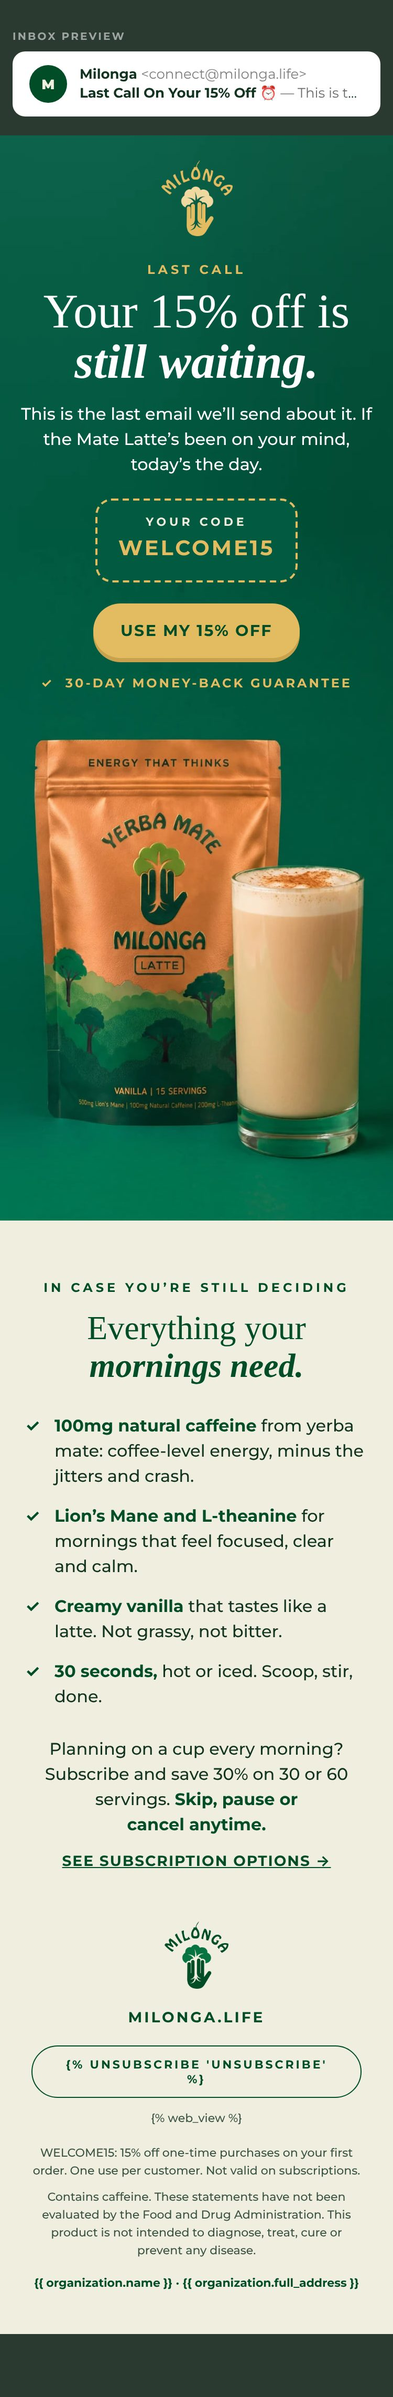
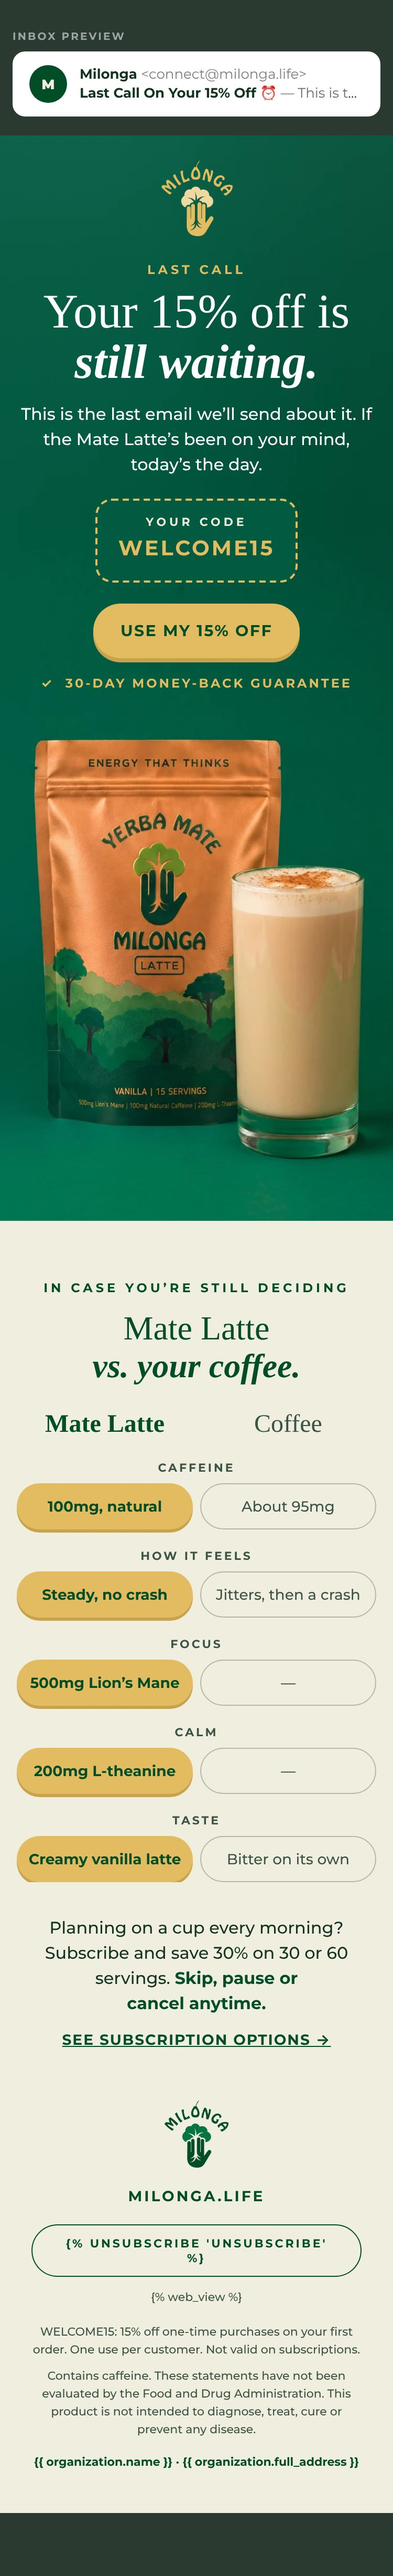
Welcome flow E3: Mate Latte vs. coffee comparison
Claude-Session: https://claude.ai/code/session_01NhEtXPnfeCJfN73SqBkUZ5

diff --git a/email-ds/refine/welcome-e3.html b/email-ds/refine/welcome-e3.html
@@ -36,6 +36,8 @@ body{margin:0;background:#2B3A31;padding:28px 0 60px}
     .code { font-size:20px !important; letter-spacing:2px !important; }
     .code-tag { padding:12px 20px 14px !important; }
     .btn { padding:18px 26px !important; font-size:15px !important; letter-spacing:1.2px !important; }
+    .pad-cmp { padding-left:16px !important; padding-right:16px !important; }
+    .cmp { font-size:14px !important; line-height:18px !important; padding-left:8px !important; padding-right:8px !important; }
   }
   @media (prefers-color-scheme: dark) {
     .bg-hero { background-color:#025A41 !important; }
@@ -68,25 +70,52 @@ body{margin:0;background:#2B3A31;padding:28px 0 60px}
 <!--[if gte mso 9]></v:textbox></v:rect><![endif]-->
 </td></tr>
 
-<!-- ── 2 · STILL DECIDING? (beige) ─────────────────────────────────── -->
-<tr><td class="pad bg-page" align="center" bgcolor="#F0EFDF" style="background-color:#F0EFDF;padding:56px 48px 0;font-family:'Montserrat','Helvetica Neue',Helvetica,Arial,sans-serif;">
+<!-- ── 2 · MATE LATTE VS. COFFEE (beige) ─────────────────────────── -->
+<tr><td class="pad bg-page" align="center" bgcolor="#F0EFDF" style="background-color:#F0EFDF;padding:56px 40px 0;font-family:'Montserrat','Helvetica Neue',Helvetica,Arial,sans-serif;">
 <div style="font-size:12px;line-height:16px;font-weight:700;letter-spacing:3px;text-transform:uppercase;color:#004D27;">In case you&rsquo;re still deciding</div>
-<div class="h-sec" style="padding-top:12px;font-family:'Times New Roman',Times,Georgia,serif;font-size:40px;line-height:44px;font-weight:400;color:#004D27;">Everything your</div>
-<div class="h-sec" style="font-family:'Times New Roman',Times,Georgia,serif;font-size:40px;line-height:44px;font-weight:700;font-style:italic;color:#004D27;">mornings need.</div>
+<div class="h-sec" style="padding-top:12px;font-family:'Times New Roman',Times,Georgia,serif;font-size:40px;line-height:44px;font-weight:400;color:#004D27;">Mate Latte</div>
+<div class="h-sec" style="font-family:'Times New Roman',Times,Georgia,serif;font-size:40px;line-height:44px;font-weight:700;font-style:italic;color:#004D27;">vs. your coffee.</div>
 </td></tr>
-<tr><td class="pad bg-page" bgcolor="#F0EFDF" style="background-color:#F0EFDF;padding:28px 56px 0;">
-<table role="presentation" width="100%" cellpadding="0" cellspacing="0" border="0">
-<tr><td valign="top" width="28" style="width:28px;padding:0 0 14px;font-family:'Montserrat','Helvetica Neue',Helvetica,Arial,sans-serif;font-size:16px;line-height:24px;font-weight:700;color:#004D27;">&#10003;</td>
-<td valign="top" style="padding:0 0 14px;font-family:'Montserrat','Helvetica Neue',Helvetica,Arial,sans-serif;font-size:16px;line-height:24px;font-weight:500;color:#12331F;"><strong style="font-weight:700;color:#004D27;">100mg natural caffeine</strong> from yerba mate: coffee-level energy, minus the jitters and crash.</td></tr>
-<tr><td valign="top" width="28" style="width:28px;padding:0 0 14px;font-family:'Montserrat','Helvetica Neue',Helvetica,Arial,sans-serif;font-size:16px;line-height:24px;font-weight:700;color:#004D27;">&#10003;</td>
-<td valign="top" style="padding:0 0 14px;font-family:'Montserrat','Helvetica Neue',Helvetica,Arial,sans-serif;font-size:16px;line-height:24px;font-weight:500;color:#12331F;"><strong style="font-weight:700;color:#004D27;">Lion&rsquo;s Mane and L-theanine</strong> for mornings that feel focused, clear and calm.</td></tr>
-<tr><td valign="top" width="28" style="width:28px;padding:0 0 14px;font-family:'Montserrat','Helvetica Neue',Helvetica,Arial,sans-serif;font-size:16px;line-height:24px;font-weight:700;color:#004D27;">&#10003;</td>
-<td valign="top" style="padding:0 0 14px;font-family:'Montserrat','Helvetica Neue',Helvetica,Arial,sans-serif;font-size:16px;line-height:24px;font-weight:500;color:#12331F;"><strong style="font-weight:700;color:#004D27;">Creamy vanilla</strong> that tastes like a latte. Not grassy, not bitter.</td></tr>
-<tr><td valign="top" width="28" style="width:28px;padding:0 0 14px;font-family:'Montserrat','Helvetica Neue',Helvetica,Arial,sans-serif;font-size:16px;line-height:24px;font-weight:700;color:#004D27;">&#10003;</td>
-<td valign="top" style="padding:0 0 14px;font-family:'Montserrat','Helvetica Neue',Helvetica,Arial,sans-serif;font-size:16px;line-height:24px;font-weight:500;color:#12331F;"><strong style="font-weight:700;color:#004D27;">30 seconds,</strong> hot or iced. Scoop, stir, done.</td></tr>
+<tr><td class="pad-cmp bg-page" bgcolor="#F0EFDF" style="background-color:#F0EFDF;padding:24px 40px 0;">
+<table role="presentation" width="100%" cellpadding="0" cellspacing="0" border="0" style="border-collapse:separate;">
+<tr>
+<td width="49%" align="center" style="width:49%;padding-bottom:2px;font-family:'Times New Roman',Times,Georgia,serif;font-size:24px;line-height:28px;font-weight:700;color:#004D27;">Mate Latte</td>
+<td width="2%" style="width:2%;font-size:0;">&nbsp;</td>
+<td width="49%" align="center" style="width:49%;padding-bottom:2px;font-family:'Times New Roman',Times,Georgia,serif;font-size:24px;line-height:28px;font-weight:400;color:#3B5344;">Coffee</td>
+</tr>
+<tr><td colspan="3" align="center" style="padding:18px 0 8px;font-family:'Montserrat','Helvetica Neue',Helvetica,Arial,sans-serif;font-size:11px;line-height:14px;font-weight:700;letter-spacing:2px;text-transform:uppercase;color:#3B5344;">Caffeine</td></tr>
+<tr>
+<td class="cmp" width="49%" align="center" valign="middle" bgcolor="#E3BC62" style="width:49%;background-color:#E3BC62;border-radius:999px;padding:13px 10px;font-family:'Montserrat','Helvetica Neue',Helvetica,Arial,sans-serif;font-size:15px;line-height:20px;font-weight:700;color:#004D27;box-shadow:0 3px 0 #C9A24E;">100mg, natural</td>
+<td width="2%" style="width:2%;font-size:0;line-height:0;">&nbsp;</td>
+<td class="cmp" width="49%" align="center" valign="middle" style="width:49%;border:1.5px solid #B9B7A3;border-radius:999px;padding:12px 10px;font-family:'Montserrat','Helvetica Neue',Helvetica,Arial,sans-serif;font-size:15px;line-height:20px;font-weight:500;color:#3B5344;">About 95mg</td>
+</tr>
+<tr><td colspan="3" align="center" style="padding:18px 0 8px;font-family:'Montserrat','Helvetica Neue',Helvetica,Arial,sans-serif;font-size:11px;line-height:14px;font-weight:700;letter-spacing:2px;text-transform:uppercase;color:#3B5344;">How it feels</td></tr>
+<tr>
+<td class="cmp" width="49%" align="center" valign="middle" bgcolor="#E3BC62" style="width:49%;background-color:#E3BC62;border-radius:999px;padding:13px 10px;font-family:'Montserrat','Helvetica Neue',Helvetica,Arial,sans-serif;font-size:15px;line-height:20px;font-weight:700;color:#004D27;box-shadow:0 3px 0 #C9A24E;">Steady, no crash</td>
+<td width="2%" style="width:2%;font-size:0;line-height:0;">&nbsp;</td>
+<td class="cmp" width="49%" align="center" valign="middle" style="width:49%;border:1.5px solid #B9B7A3;border-radius:999px;padding:12px 10px;font-family:'Montserrat','Helvetica Neue',Helvetica,Arial,sans-serif;font-size:15px;line-height:20px;font-weight:500;color:#3B5344;">Jitters, then a crash</td>
+</tr>
+<tr><td colspan="3" align="center" style="padding:18px 0 8px;font-family:'Montserrat','Helvetica Neue',Helvetica,Arial,sans-serif;font-size:11px;line-height:14px;font-weight:700;letter-spacing:2px;text-transform:uppercase;color:#3B5344;">Focus</td></tr>
+<tr>
+<td class="cmp" width="49%" align="center" valign="middle" bgcolor="#E3BC62" style="width:49%;background-color:#E3BC62;border-radius:999px;padding:13px 10px;font-family:'Montserrat','Helvetica Neue',Helvetica,Arial,sans-serif;font-size:15px;line-height:20px;font-weight:700;color:#004D27;box-shadow:0 3px 0 #C9A24E;">500mg Lion&rsquo;s Mane</td>
+<td width="2%" style="width:2%;font-size:0;line-height:0;">&nbsp;</td>
+<td class="cmp" width="49%" align="center" valign="middle" style="width:49%;border:1.5px solid #B9B7A3;border-radius:999px;padding:12px 10px;font-family:'Montserrat','Helvetica Neue',Helvetica,Arial,sans-serif;font-size:15px;line-height:20px;font-weight:500;color:#3B5344;">&mdash;</td>
+</tr>
+<tr><td colspan="3" align="center" style="padding:18px 0 8px;font-family:'Montserrat','Helvetica Neue',Helvetica,Arial,sans-serif;font-size:11px;line-height:14px;font-weight:700;letter-spacing:2px;text-transform:uppercase;color:#3B5344;">Calm</td></tr>
+<tr>
+<td class="cmp" width="49%" align="center" valign="middle" bgcolor="#E3BC62" style="width:49%;background-color:#E3BC62;border-radius:999px;padding:13px 10px;font-family:'Montserrat','Helvetica Neue',Helvetica,Arial,sans-serif;font-size:15px;line-height:20px;font-weight:700;color:#004D27;box-shadow:0 3px 0 #C9A24E;">200mg L-theanine</td>
+<td width="2%" style="width:2%;font-size:0;line-height:0;">&nbsp;</td>
+<td class="cmp" width="49%" align="center" valign="middle" style="width:49%;border:1.5px solid #B9B7A3;border-radius:999px;padding:12px 10px;font-family:'Montserrat','Helvetica Neue',Helvetica,Arial,sans-serif;font-size:15px;line-height:20px;font-weight:500;color:#3B5344;">&mdash;</td>
+</tr>
+<tr><td colspan="3" align="center" style="padding:18px 0 8px;font-family:'Montserrat','Helvetica Neue',Helvetica,Arial,sans-serif;font-size:11px;line-height:14px;font-weight:700;letter-spacing:2px;text-transform:uppercase;color:#3B5344;">Taste</td></tr>
+<tr>
+<td class="cmp" width="49%" align="center" valign="middle" bgcolor="#E3BC62" style="width:49%;background-color:#E3BC62;border-radius:999px;padding:13px 10px;font-family:'Montserrat','Helvetica Neue',Helvetica,Arial,sans-serif;font-size:15px;line-height:20px;font-weight:700;color:#004D27;box-shadow:0 3px 0 #C9A24E;">Creamy vanilla latte</td>
+<td width="2%" style="width:2%;font-size:0;line-height:0;">&nbsp;</td>
+<td class="cmp" width="49%" align="center" valign="middle" style="width:49%;border:1.5px solid #B9B7A3;border-radius:999px;padding:12px 10px;font-family:'Montserrat','Helvetica Neue',Helvetica,Arial,sans-serif;font-size:15px;line-height:20px;font-weight:500;color:#3B5344;">Bitter on its own</td>
+</tr>
 </table>
 </td></tr>
-<tr><td class="pad bg-page" align="center" bgcolor="#F0EFDF" style="background-color:#F0EFDF;padding:12px 48px 0;font-family:'Montserrat','Helvetica Neue',Helvetica,Arial,sans-serif;">
+<tr><td class="pad bg-page" align="center" bgcolor="#F0EFDF" style="background-color:#F0EFDF;padding:32px 48px 0;font-family:'Montserrat','Helvetica Neue',Helvetica,Arial,sans-serif;">
 <div style="font-size:16px;line-height:24px;font-weight:500;color:#12331F;">Planning on a cup every morning? Subscribe and save 30% on 30 or 60 servings. <strong style="font-weight:700;color:#004D27;">Skip, pause or cancel&nbsp;anytime.</strong></div>
 <div style="padding-top:12px;font-size:14px;line-height:20px;font-weight:700;letter-spacing:1px;text-transform:uppercase;"><a href="https://milonga.life/products/the-original-mate-latte?utm_source=klaviyo&amp;utm_medium=email&amp;utm_campaign=welcome_mystery_offer&amp;utm_content=e3_subscribe_link" target="_blank" style="color:#004D27;text-decoration:underline;">See subscription options →</a></div>
 </td></tr>

diff --git a/email-ds/exports/klaviyo/welcome-e3/welcome-e3.html b/email-ds/exports/klaviyo/welcome-e3/welcome-e3.html
@@ -22,6 +22,8 @@
     .code { font-size:20px !important; letter-spacing:2px !important; }
     .code-tag { padding:12px 20px 14px !important; }
     .btn { padding:18px 26px !important; font-size:15px !important; letter-spacing:1.2px !important; }
+    .pad-cmp { padding-left:16px !important; padding-right:16px !important; }
+    .cmp { font-size:14px !important; line-height:18px !important; padding-left:8px !important; padding-right:8px !important; }
   }
   @media (prefers-color-scheme: dark) {
     .bg-hero { background-color:#025A41 !important; }
@@ -54,25 +56,52 @@
 <!--[if gte mso 9]></v:textbox></v:rect><![endif]-->
 </td></tr>
 
-<!-- ── 2 · STILL DECIDING? (beige) ─────────────────────────────────── -->
-<tr><td class="pad bg-page" align="center" bgcolor="#F0EFDF" style="background-color:#F0EFDF;padding:56px 48px 0;font-family:'Montserrat','Helvetica Neue',Helvetica,Arial,sans-serif;">
+<!-- ── 2 · MATE LATTE VS. COFFEE (beige) ─────────────────────────── -->
+<tr><td class="pad bg-page" align="center" bgcolor="#F0EFDF" style="background-color:#F0EFDF;padding:56px 40px 0;font-family:'Montserrat','Helvetica Neue',Helvetica,Arial,sans-serif;">
 <div style="font-size:12px;line-height:16px;font-weight:700;letter-spacing:3px;text-transform:uppercase;color:#004D27;">In case you&rsquo;re still deciding</div>
-<div class="h-sec" style="padding-top:12px;font-family:'Times New Roman',Times,Georgia,serif;font-size:40px;line-height:44px;font-weight:400;color:#004D27;">Everything your</div>
-<div class="h-sec" style="font-family:'Times New Roman',Times,Georgia,serif;font-size:40px;line-height:44px;font-weight:700;font-style:italic;color:#004D27;">mornings need.</div>
+<div class="h-sec" style="padding-top:12px;font-family:'Times New Roman',Times,Georgia,serif;font-size:40px;line-height:44px;font-weight:400;color:#004D27;">Mate Latte</div>
+<div class="h-sec" style="font-family:'Times New Roman',Times,Georgia,serif;font-size:40px;line-height:44px;font-weight:700;font-style:italic;color:#004D27;">vs. your coffee.</div>
 </td></tr>
-<tr><td class="pad bg-page" bgcolor="#F0EFDF" style="background-color:#F0EFDF;padding:28px 56px 0;">
-<table role="presentation" width="100%" cellpadding="0" cellspacing="0" border="0">
-<tr><td valign="top" width="28" style="width:28px;padding:0 0 14px;font-family:'Montserrat','Helvetica Neue',Helvetica,Arial,sans-serif;font-size:16px;line-height:24px;font-weight:700;color:#004D27;">&#10003;</td>
-<td valign="top" style="padding:0 0 14px;font-family:'Montserrat','Helvetica Neue',Helvetica,Arial,sans-serif;font-size:16px;line-height:24px;font-weight:500;color:#12331F;"><strong style="font-weight:700;color:#004D27;">100mg natural caffeine</strong> from yerba mate: coffee-level energy, minus the jitters and crash.</td></tr>
-<tr><td valign="top" width="28" style="width:28px;padding:0 0 14px;font-family:'Montserrat','Helvetica Neue',Helvetica,Arial,sans-serif;font-size:16px;line-height:24px;font-weight:700;color:#004D27;">&#10003;</td>
-<td valign="top" style="padding:0 0 14px;font-family:'Montserrat','Helvetica Neue',Helvetica,Arial,sans-serif;font-size:16px;line-height:24px;font-weight:500;color:#12331F;"><strong style="font-weight:700;color:#004D27;">Lion&rsquo;s Mane and L-theanine</strong> for mornings that feel focused, clear and calm.</td></tr>
-<tr><td valign="top" width="28" style="width:28px;padding:0 0 14px;font-family:'Montserrat','Helvetica Neue',Helvetica,Arial,sans-serif;font-size:16px;line-height:24px;font-weight:700;color:#004D27;">&#10003;</td>
-<td valign="top" style="padding:0 0 14px;font-family:'Montserrat','Helvetica Neue',Helvetica,Arial,sans-serif;font-size:16px;line-height:24px;font-weight:500;color:#12331F;"><strong style="font-weight:700;color:#004D27;">Creamy vanilla</strong> that tastes like a latte. Not grassy, not bitter.</td></tr>
-<tr><td valign="top" width="28" style="width:28px;padding:0 0 14px;font-family:'Montserrat','Helvetica Neue',Helvetica,Arial,sans-serif;font-size:16px;line-height:24px;font-weight:700;color:#004D27;">&#10003;</td>
-<td valign="top" style="padding:0 0 14px;font-family:'Montserrat','Helvetica Neue',Helvetica,Arial,sans-serif;font-size:16px;line-height:24px;font-weight:500;color:#12331F;"><strong style="font-weight:700;color:#004D27;">30 seconds,</strong> hot or iced. Scoop, stir, done.</td></tr>
+<tr><td class="pad-cmp bg-page" bgcolor="#F0EFDF" style="background-color:#F0EFDF;padding:24px 40px 0;">
+<table role="presentation" width="100%" cellpadding="0" cellspacing="0" border="0" style="border-collapse:separate;">
+<tr>
+<td width="49%" align="center" style="width:49%;padding-bottom:2px;font-family:'Times New Roman',Times,Georgia,serif;font-size:24px;line-height:28px;font-weight:700;color:#004D27;">Mate Latte</td>
+<td width="2%" style="width:2%;font-size:0;">&nbsp;</td>
+<td width="49%" align="center" style="width:49%;padding-bottom:2px;font-family:'Times New Roman',Times,Georgia,serif;font-size:24px;line-height:28px;font-weight:400;color:#3B5344;">Coffee</td>
+</tr>
+<tr><td colspan="3" align="center" style="padding:18px 0 8px;font-family:'Montserrat','Helvetica Neue',Helvetica,Arial,sans-serif;font-size:11px;line-height:14px;font-weight:700;letter-spacing:2px;text-transform:uppercase;color:#3B5344;">Caffeine</td></tr>
+<tr>
+<td class="cmp" width="49%" align="center" valign="middle" bgcolor="#E3BC62" style="width:49%;background-color:#E3BC62;border-radius:999px;padding:13px 10px;font-family:'Montserrat','Helvetica Neue',Helvetica,Arial,sans-serif;font-size:15px;line-height:20px;font-weight:700;color:#004D27;box-shadow:0 3px 0 #C9A24E;">100mg, natural</td>
+<td width="2%" style="width:2%;font-size:0;line-height:0;">&nbsp;</td>
+<td class="cmp" width="49%" align="center" valign="middle" style="width:49%;border:1.5px solid #B9B7A3;border-radius:999px;padding:12px 10px;font-family:'Montserrat','Helvetica Neue',Helvetica,Arial,sans-serif;font-size:15px;line-height:20px;font-weight:500;color:#3B5344;">About 95mg</td>
+</tr>
+<tr><td colspan="3" align="center" style="padding:18px 0 8px;font-family:'Montserrat','Helvetica Neue',Helvetica,Arial,sans-serif;font-size:11px;line-height:14px;font-weight:700;letter-spacing:2px;text-transform:uppercase;color:#3B5344;">How it feels</td></tr>
+<tr>
+<td class="cmp" width="49%" align="center" valign="middle" bgcolor="#E3BC62" style="width:49%;background-color:#E3BC62;border-radius:999px;padding:13px 10px;font-family:'Montserrat','Helvetica Neue',Helvetica,Arial,sans-serif;font-size:15px;line-height:20px;font-weight:700;color:#004D27;box-shadow:0 3px 0 #C9A24E;">Steady, no crash</td>
+<td width="2%" style="width:2%;font-size:0;line-height:0;">&nbsp;</td>
+<td class="cmp" width="49%" align="center" valign="middle" style="width:49%;border:1.5px solid #B9B7A3;border-radius:999px;padding:12px 10px;font-family:'Montserrat','Helvetica Neue',Helvetica,Arial,sans-serif;font-size:15px;line-height:20px;font-weight:500;color:#3B5344;">Jitters, then a crash</td>
+</tr>
+<tr><td colspan="3" align="center" style="padding:18px 0 8px;font-family:'Montserrat','Helvetica Neue',Helvetica,Arial,sans-serif;font-size:11px;line-height:14px;font-weight:700;letter-spacing:2px;text-transform:uppercase;color:#3B5344;">Focus</td></tr>
+<tr>
+<td class="cmp" width="49%" align="center" valign="middle" bgcolor="#E3BC62" style="width:49%;background-color:#E3BC62;border-radius:999px;padding:13px 10px;font-family:'Montserrat','Helvetica Neue',Helvetica,Arial,sans-serif;font-size:15px;line-height:20px;font-weight:700;color:#004D27;box-shadow:0 3px 0 #C9A24E;">500mg Lion&rsquo;s Mane</td>
+<td width="2%" style="width:2%;font-size:0;line-height:0;">&nbsp;</td>
+<td class="cmp" width="49%" align="center" valign="middle" style="width:49%;border:1.5px solid #B9B7A3;border-radius:999px;padding:12px 10px;font-family:'Montserrat','Helvetica Neue',Helvetica,Arial,sans-serif;font-size:15px;line-height:20px;font-weight:500;color:#3B5344;">&mdash;</td>
+</tr>
+<tr><td colspan="3" align="center" style="padding:18px 0 8px;font-family:'Montserrat','Helvetica Neue',Helvetica,Arial,sans-serif;font-size:11px;line-height:14px;font-weight:700;letter-spacing:2px;text-transform:uppercase;color:#3B5344;">Calm</td></tr>
+<tr>
+<td class="cmp" width="49%" align="center" valign="middle" bgcolor="#E3BC62" style="width:49%;background-color:#E3BC62;border-radius:999px;padding:13px 10px;font-family:'Montserrat','Helvetica Neue',Helvetica,Arial,sans-serif;font-size:15px;line-height:20px;font-weight:700;color:#004D27;box-shadow:0 3px 0 #C9A24E;">200mg L-theanine</td>
+<td width="2%" style="width:2%;font-size:0;line-height:0;">&nbsp;</td>
+<td class="cmp" width="49%" align="center" valign="middle" style="width:49%;border:1.5px solid #B9B7A3;border-radius:999px;padding:12px 10px;font-family:'Montserrat','Helvetica Neue',Helvetica,Arial,sans-serif;font-size:15px;line-height:20px;font-weight:500;color:#3B5344;">&mdash;</td>
+</tr>
+<tr><td colspan="3" align="center" style="padding:18px 0 8px;font-family:'Montserrat','Helvetica Neue',Helvetica,Arial,sans-serif;font-size:11px;line-height:14px;font-weight:700;letter-spacing:2px;text-transform:uppercase;color:#3B5344;">Taste</td></tr>
+<tr>
+<td class="cmp" width="49%" align="center" valign="middle" bgcolor="#E3BC62" style="width:49%;background-color:#E3BC62;border-radius:999px;padding:13px 10px;font-family:'Montserrat','Helvetica Neue',Helvetica,Arial,sans-serif;font-size:15px;line-height:20px;font-weight:700;color:#004D27;box-shadow:0 3px 0 #C9A24E;">Creamy vanilla latte</td>
+<td width="2%" style="width:2%;font-size:0;line-height:0;">&nbsp;</td>
+<td class="cmp" width="49%" align="center" valign="middle" style="width:49%;border:1.5px solid #B9B7A3;border-radius:999px;padding:12px 10px;font-family:'Montserrat','Helvetica Neue',Helvetica,Arial,sans-serif;font-size:15px;line-height:20px;font-weight:500;color:#3B5344;">Bitter on its own</td>
+</tr>
 </table>
 </td></tr>
-<tr><td class="pad bg-page" align="center" bgcolor="#F0EFDF" style="background-color:#F0EFDF;padding:12px 48px 0;font-family:'Montserrat','Helvetica Neue',Helvetica,Arial,sans-serif;">
+<tr><td class="pad bg-page" align="center" bgcolor="#F0EFDF" style="background-color:#F0EFDF;padding:32px 48px 0;font-family:'Montserrat','Helvetica Neue',Helvetica,Arial,sans-serif;">
 <div style="font-size:16px;line-height:24px;font-weight:500;color:#12331F;">Planning on a cup every morning? Subscribe and save 30% on 30 or 60 servings. <strong style="font-weight:700;color:#004D27;">Skip, pause or cancel&nbsp;anytime.</strong></div>
 <div style="padding-top:12px;font-size:14px;line-height:20px;font-weight:700;letter-spacing:1px;text-transform:uppercase;"><a href="https://milonga.life/products/the-original-mate-latte?utm_source=klaviyo&amp;utm_medium=email&amp;utm_campaign=welcome_mystery_offer&amp;utm_content=e3_subscribe_link" target="_blank" style="color:#004D27;text-decoration:underline;">See subscription options →</a></div>
 </td></tr>
